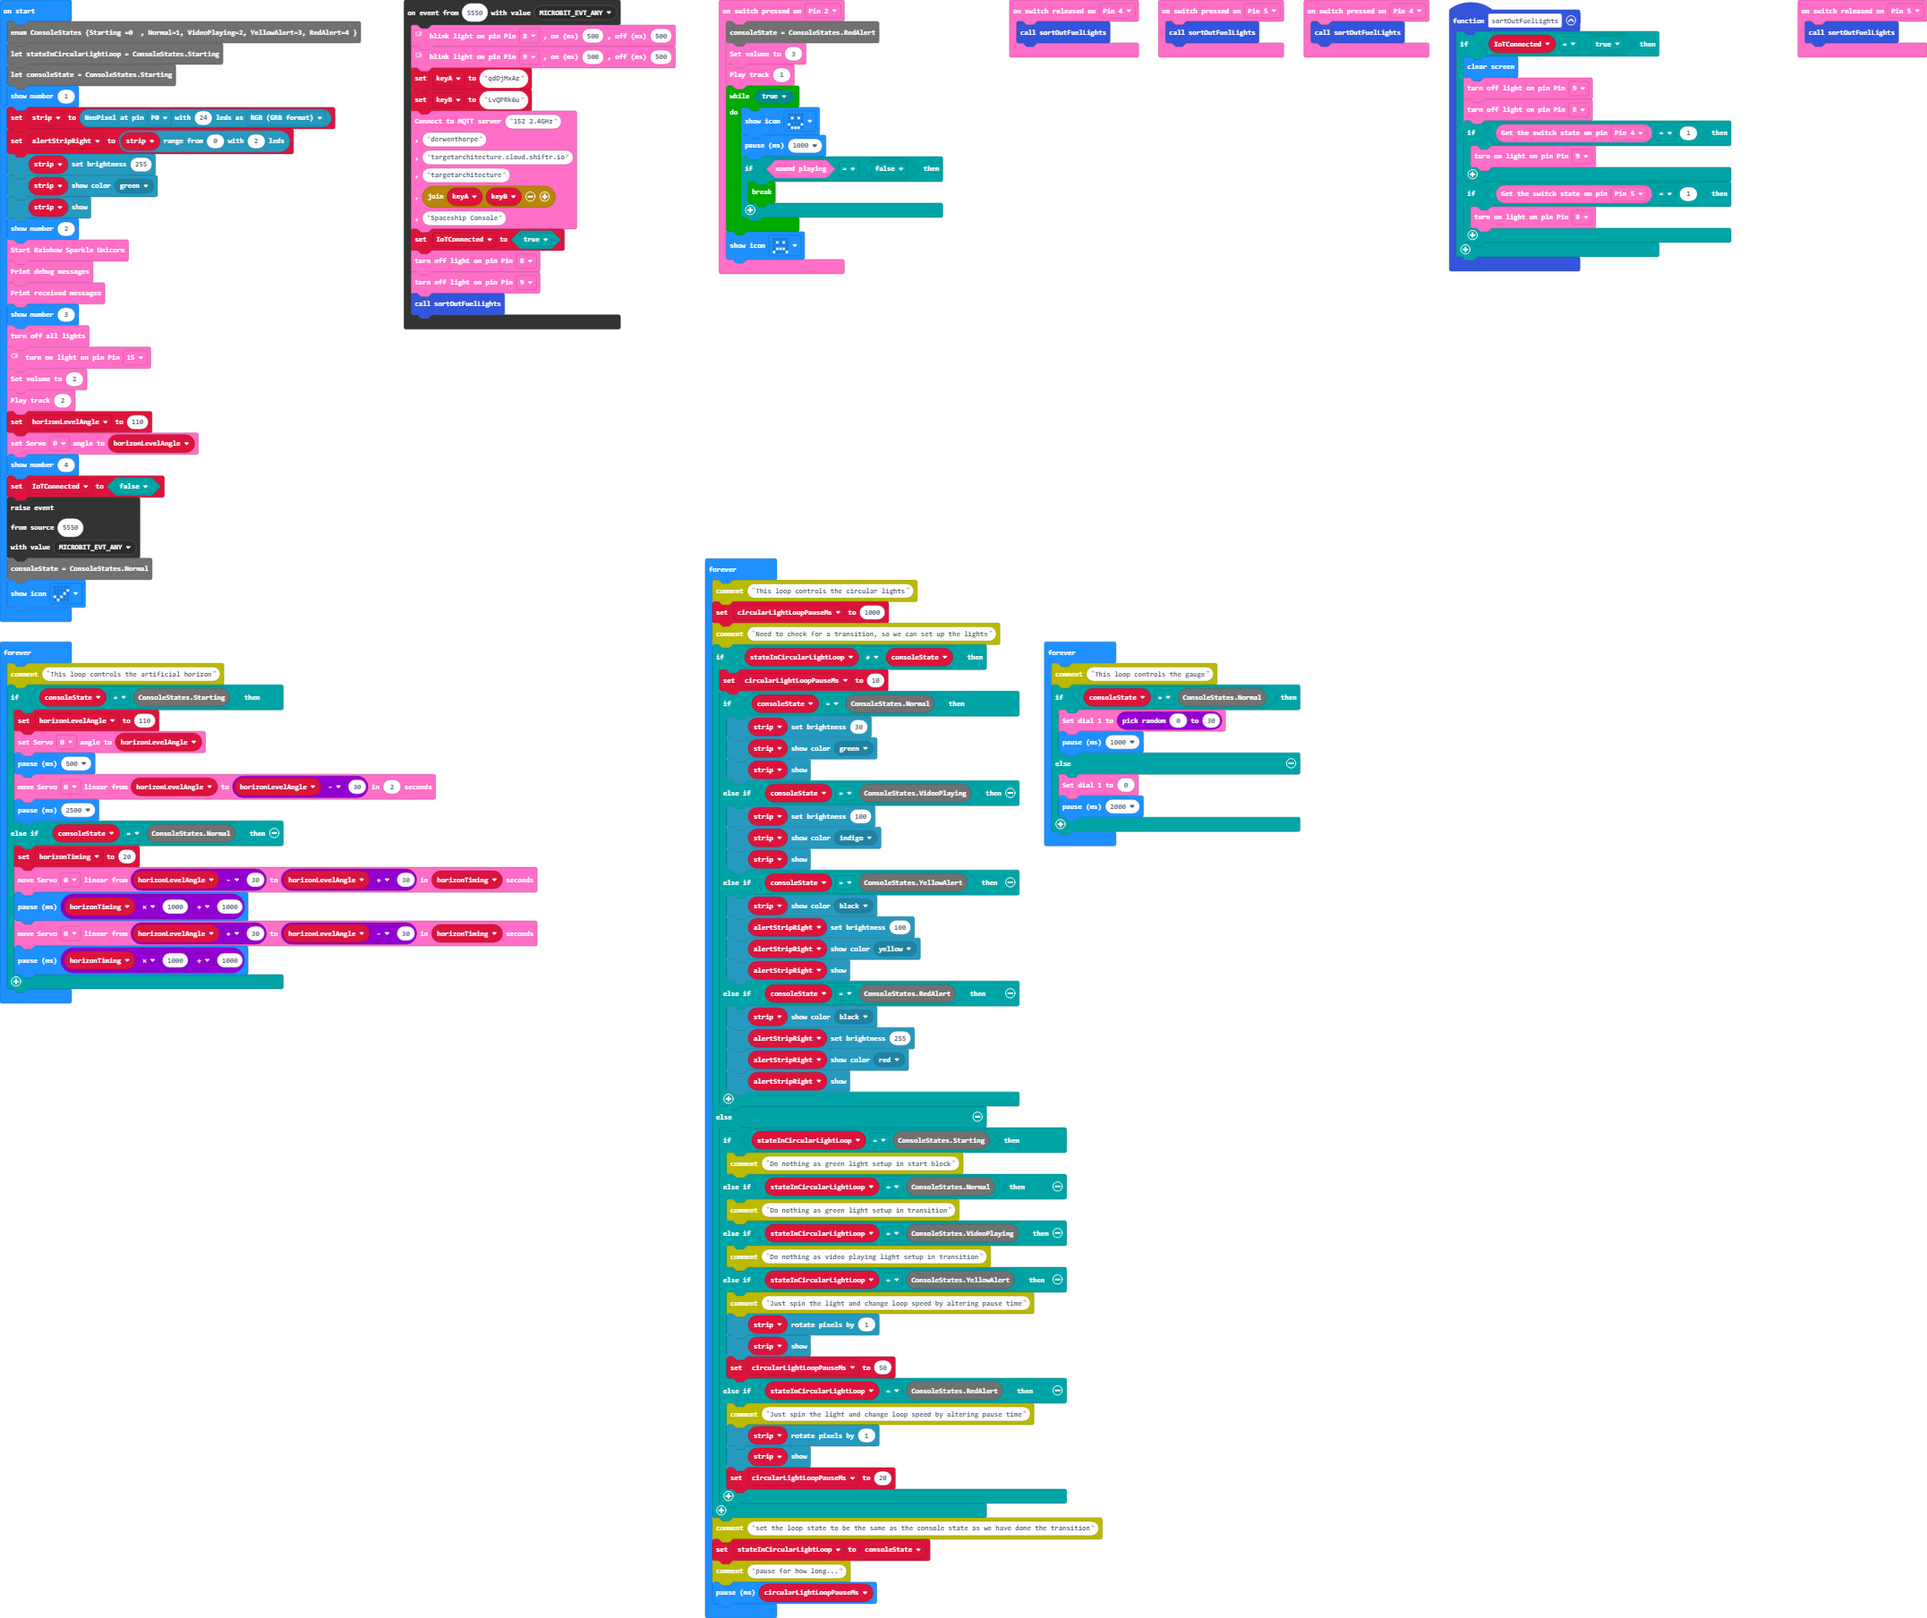
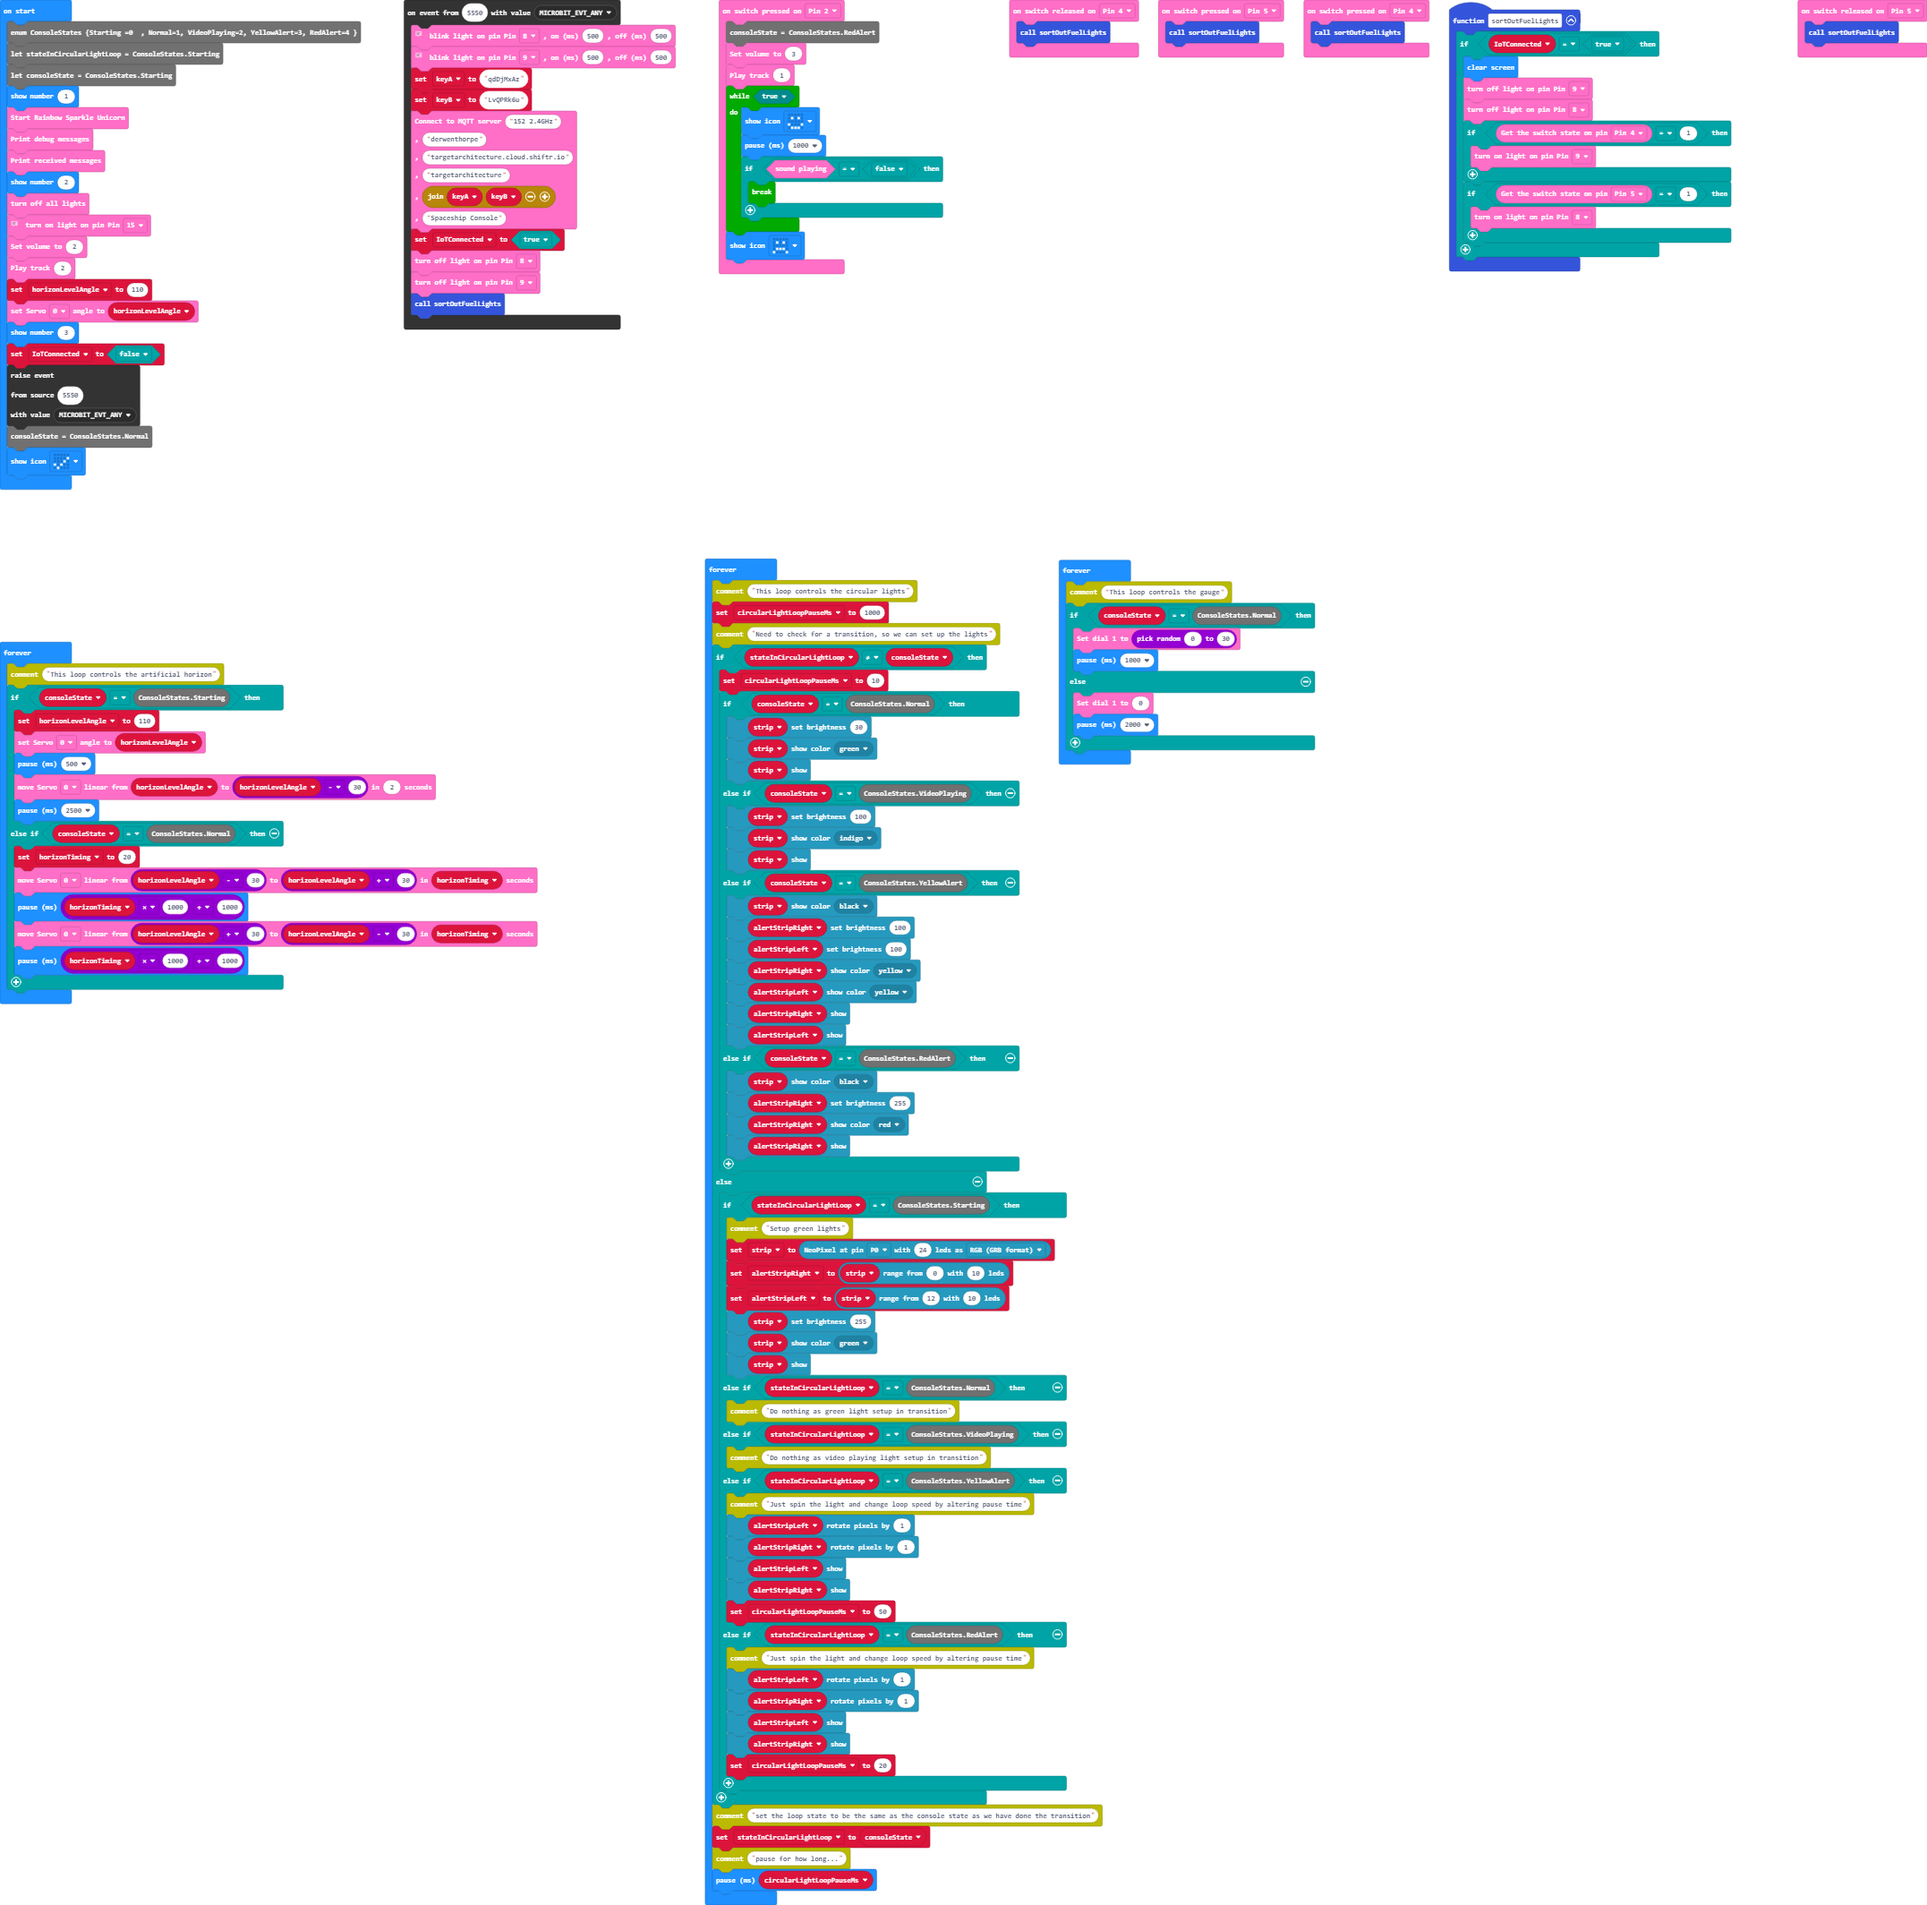
Update main.blocks, main.ts

diff --git a/main.ts b/main.ts
@@ -57,6 +57,9 @@ RainbowSparkleUnicorn.Switch.onSwitchReleased(switchPins.P5, function () {
     sortOutFuelLights()
 })
 let horizonTiming = 0
+let alertStripLeft: neopixel.Strip = null
+let alertStripRight: neopixel.Strip = null
+let strip: neopixel.Strip = null
 let circularLightLoopPauseMs = 0
 let keyB = ""
 let keyA = ""
@@ -65,16 +68,10 @@ enum ConsoleStates {Starting =0  , Normal=1, VideoPlaying=2, YellowAlert=3, RedA
 let stateInCircularLightLoop = ConsoleStates.Starting
 let consoleState = ConsoleStates.Starting
 basic.showNumber(1)
-let strip = neopixel.create(DigitalPin.P0, 24, NeoPixelMode.RGB)
-let alertStripRight = strip.range(0, 2)
-strip.setBrightness(255)
-strip.showColor(neopixel.colors(NeoPixelColors.Green))
-strip.show()
-basic.showNumber(2)
 RainbowSparkleUnicorn.start()
 RainbowSparkleUnicorn.printDebugMessages()
 RainbowSparkleUnicorn.printReceivedMessages()
-basic.showNumber(3)
+basic.showNumber(2)
 RainbowSparkleUnicorn.Light.turnAllOff()
 // This is the big red button
 RainbowSparkleUnicorn.Light.turnOn(lightPins.P15)
@@ -82,7 +79,7 @@ RainbowSparkleUnicorn.Sound.setVolume(2)
 RainbowSparkleUnicorn.Sound.playTrack(2)
 let horizonLevelAngle = 110
 RainbowSparkleUnicorn.Movement.setServoAngle(Servo.P0, horizonLevelAngle)
-basic.showNumber(4)
+basic.showNumber(3)
 IoTConnected = false
 control.raiseEvent(
 5550,
@@ -107,8 +104,11 @@ basic.forever(function () {
         } else if (consoleState == ConsoleStates.YellowAlert) {
             strip.showColor(neopixel.colors(NeoPixelColors.Black))
             alertStripRight.setBrightness(100)
+            alertStripLeft.setBrightness(100)
             alertStripRight.showColor(neopixel.colors(NeoPixelColors.Yellow))
+            alertStripLeft.showColor(neopixel.colors(NeoPixelColors.Yellow))
             alertStripRight.show()
+            alertStripLeft.show()
         } else if (consoleState == ConsoleStates.RedAlert) {
             strip.showColor(neopixel.colors(NeoPixelColors.Black))
             alertStripRight.setBrightness(255)
@@ -117,20 +117,30 @@ basic.forever(function () {
         }
     } else {
         if (stateInCircularLightLoop == ConsoleStates.Starting) {
-            comment.comment("Do nothing as green light setup in start block")
+            comment.comment("Setup green lights")
+            strip = neopixel.create(DigitalPin.P0, 24, NeoPixelMode.RGB)
+            alertStripRight = strip.range(0, 10)
+            alertStripLeft = strip.range(12, 10)
+            strip.setBrightness(255)
+            strip.showColor(neopixel.colors(NeoPixelColors.Green))
+            strip.show()
         } else if (stateInCircularLightLoop == ConsoleStates.Normal) {
             comment.comment("Do nothing as green light setup in transition")
         } else if (stateInCircularLightLoop == ConsoleStates.VideoPlaying) {
             comment.comment("Do nothing as video playing light setup in transition")
         } else if (stateInCircularLightLoop == ConsoleStates.YellowAlert) {
             comment.comment("Just spin the light and change loop speed by altering pause time")
-            strip.rotate(1)
-            strip.show()
+            alertStripLeft.rotate(1)
+            alertStripRight.rotate(1)
+            alertStripLeft.show()
+            alertStripRight.show()
             circularLightLoopPauseMs = 50
         } else if (stateInCircularLightLoop == ConsoleStates.RedAlert) {
             comment.comment("Just spin the light and change loop speed by altering pause time")
-            strip.rotate(1)
-            strip.show()
+            alertStripLeft.rotate(1)
+            alertStripRight.rotate(1)
+            alertStripLeft.show()
+            alertStripRight.show()
             circularLightLoopPauseMs = 20
         }
     }
@@ -138,6 +148,16 @@ basic.forever(function () {
     stateInCircularLightLoop = consoleState
     comment.comment("pause for how long...")
     basic.pause(circularLightLoopPauseMs)
+})
+basic.forever(function () {
+    comment.comment("This loop controls the gauge")
+    if (consoleState == ConsoleStates.Normal) {
+        RainbowSparkleUnicorn.Controls.dial1(randint(0, 30))
+        basic.pause(1000)
+    } else {
+        RainbowSparkleUnicorn.Controls.dial1(0)
+        basic.pause(2000)
+    }
 })
 basic.forever(function () {
     comment.comment("This loop controls the artificial horizon")
@@ -153,15 +173,5 @@ basic.forever(function () {
         basic.pause(horizonTiming * 1000 + 1000)
         RainbowSparkleUnicorn.Movement.moveServoLinear(Servo.P0, horizonLevelAngle + 30, horizonLevelAngle - 30, horizonTiming)
         basic.pause(horizonTiming * 1000 + 1000)
-    }
-})
-basic.forever(function () {
-    comment.comment("This loop controls the gauge")
-    if (consoleState == ConsoleStates.Normal) {
-        RainbowSparkleUnicorn.Controls.dial1(randint(0, 30))
-        basic.pause(1000)
-    } else {
-        RainbowSparkleUnicorn.Controls.dial1(0)
-        basic.pause(2000)
     }
 })
